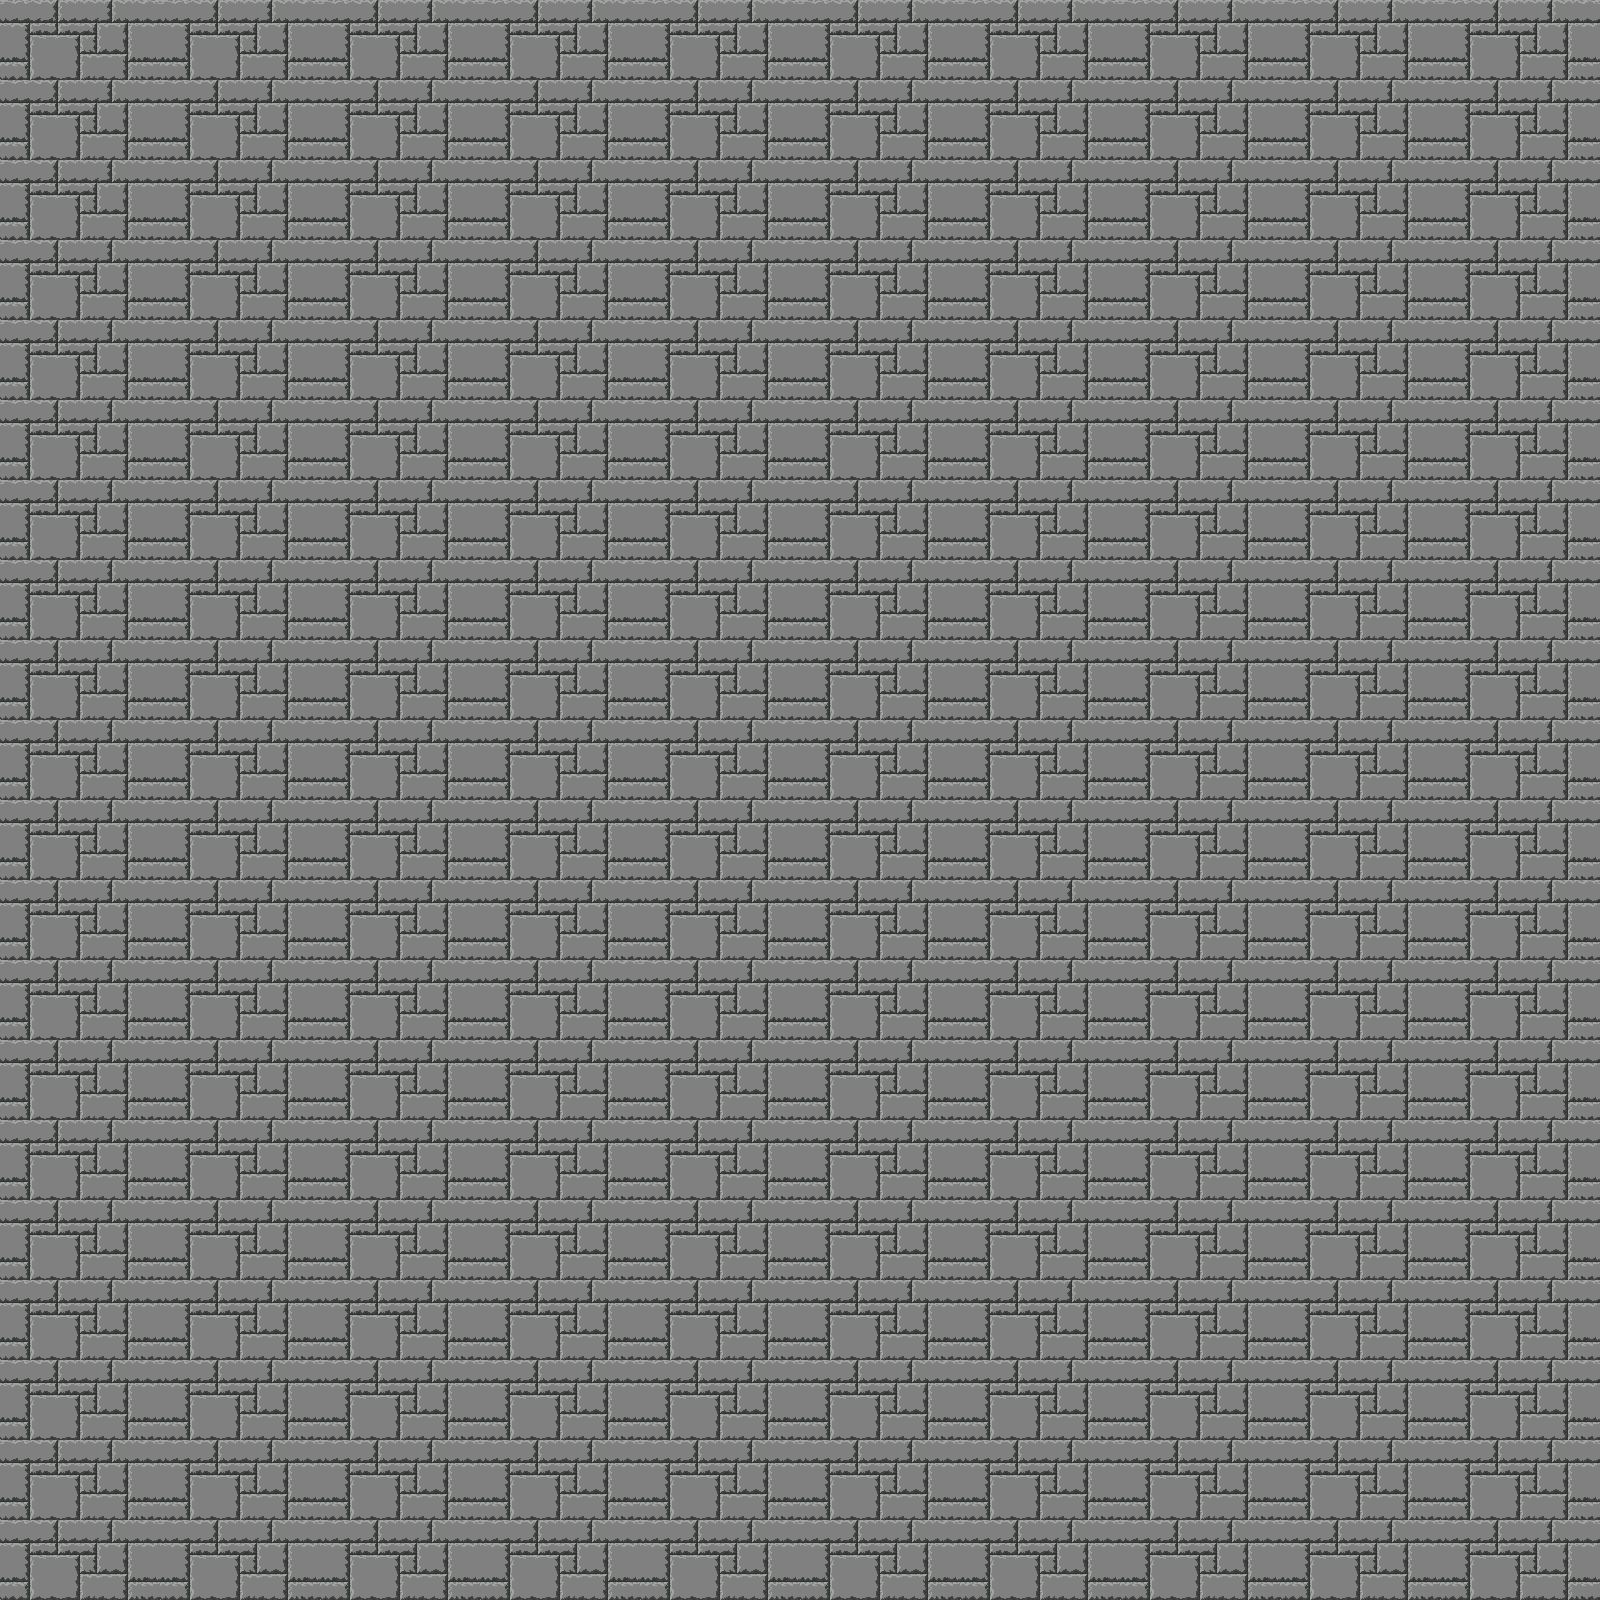
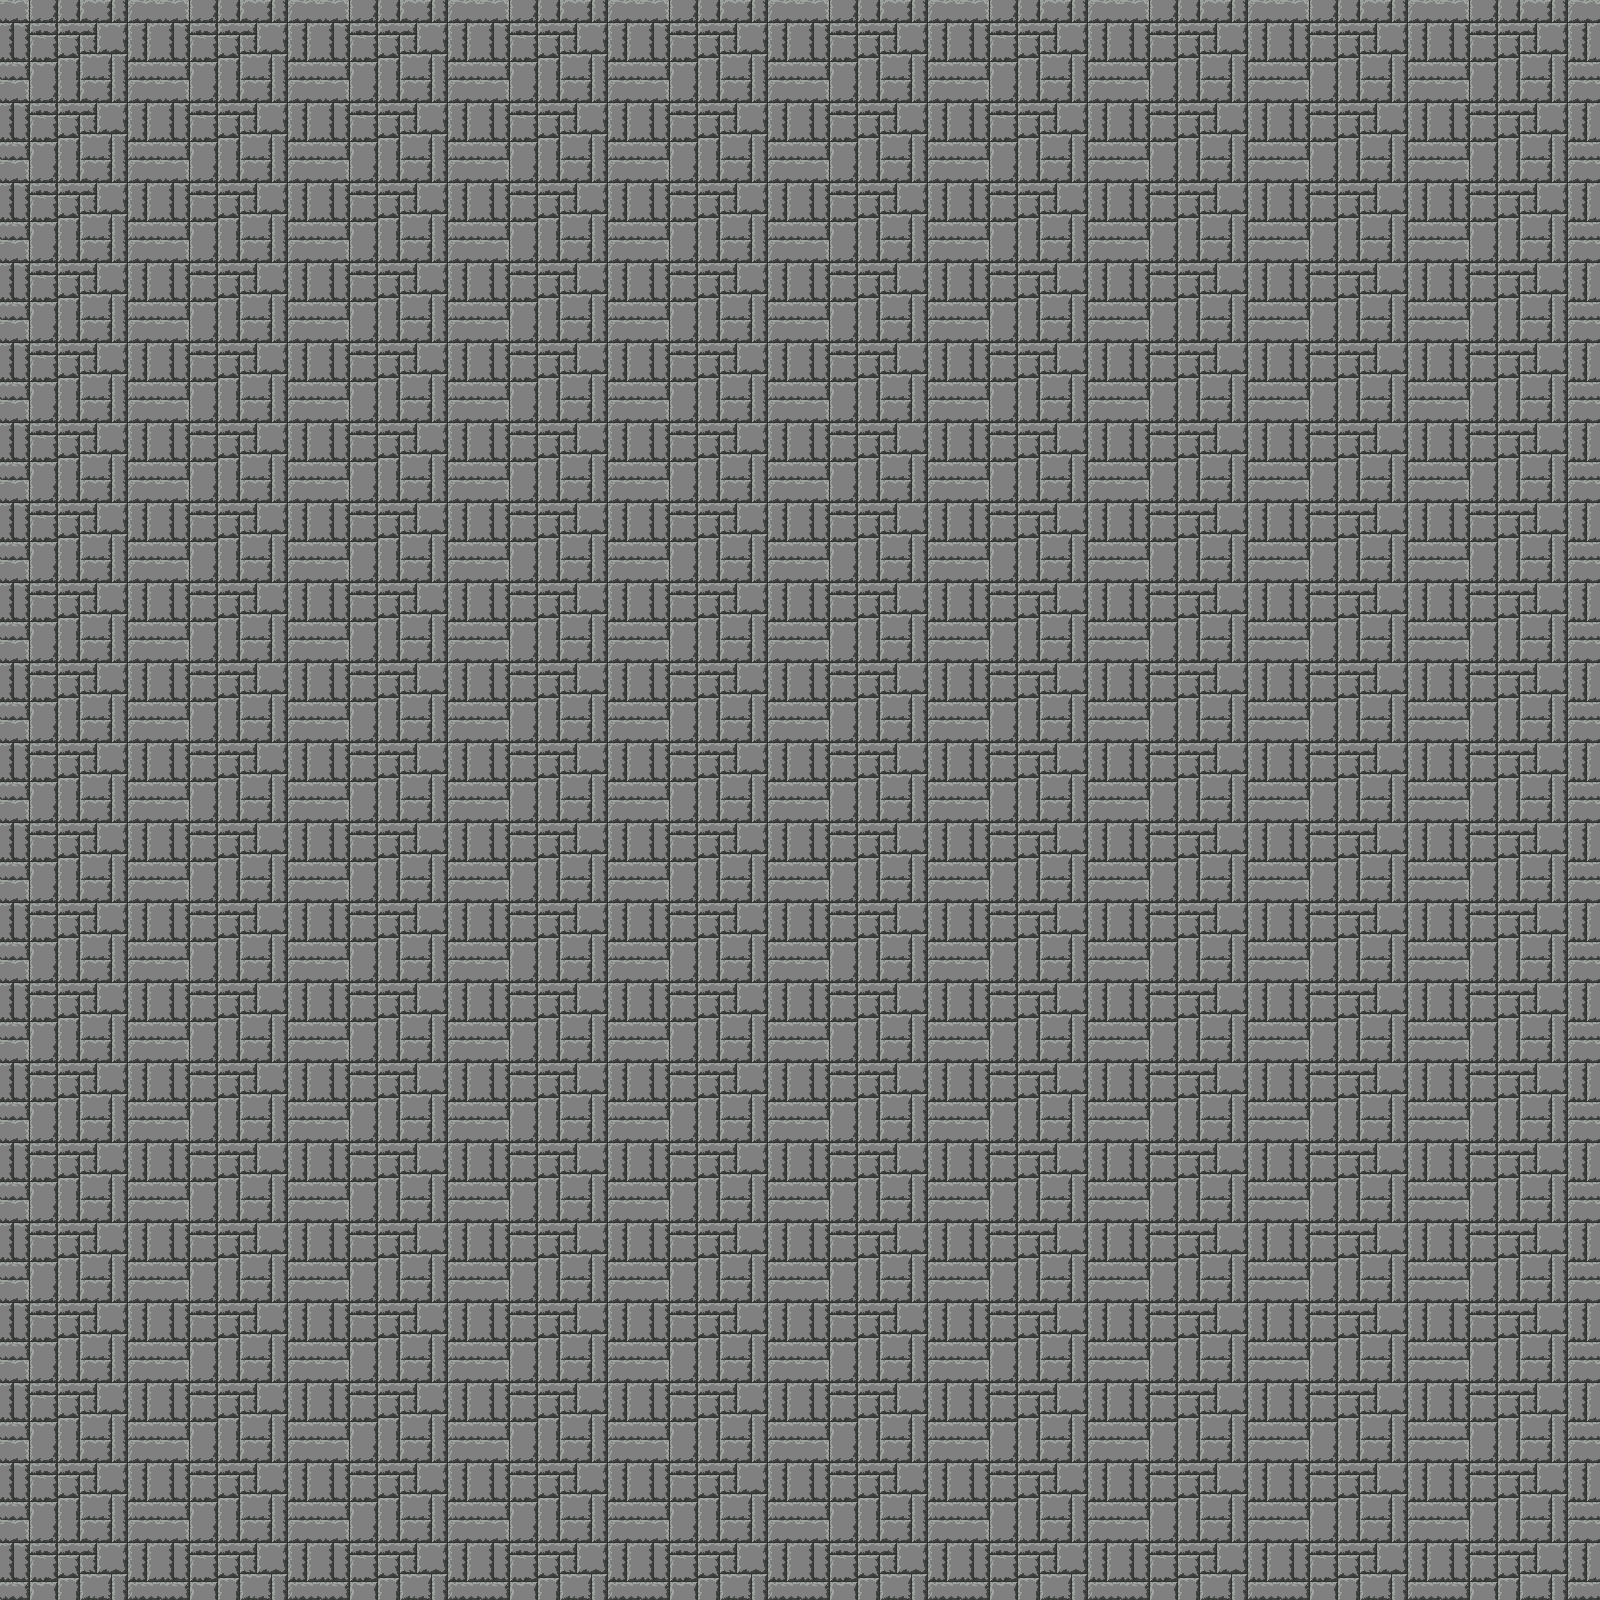
Background done

diff --git a/LightsOut2/LightsOut2/Gameplay/GameManager.cs b/LightsOut2/LightsOut2/Gameplay/GameManager.cs
@@ -64,7 +64,7 @@ namespace LightsOut2
             Game1.penumbra.Transform = camera.GetTransform();
 
             spriteBatch.Begin(SpriteSortMode.Deferred, null, null, null, null, null, camera.GetTransform());
-                spriteBatch.Draw(ContentManager.Get<Texture2D>("tempBackground"), Vector2.Zero, Color.White);
+                spriteBatch.Draw(ContentManager.Get<Texture2D>("brickSeamlessBackground"), Vector2.Zero, Color.White);
                 particleEngine.Draw(spriteBatch);
                 player.Draw(spriteBatch);
                 enemyManager.Draw(spriteBatch);
